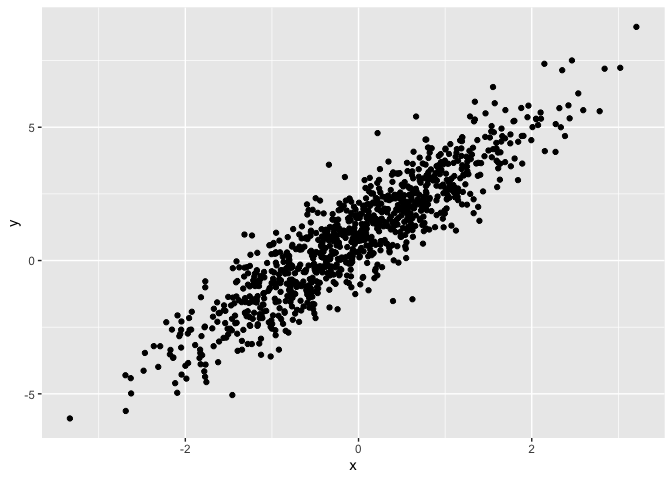
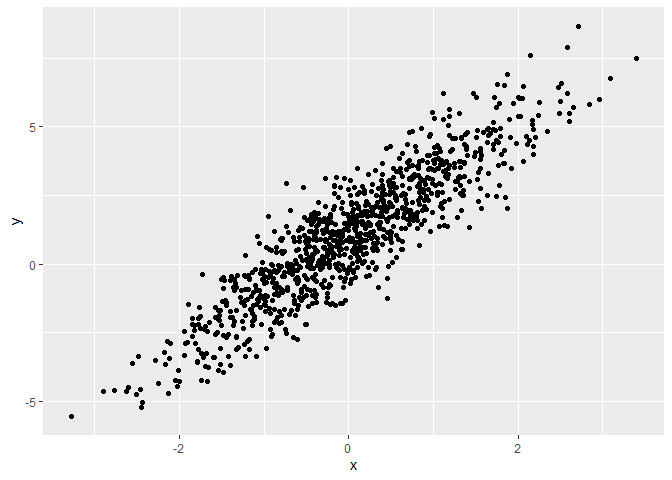
redo

diff --git a/template.md b/template.md
@@ -6,10 +6,10 @@ library(tidyverse)
 ```
 
     ## ── Attaching packages ─────────────────────────────────────── tidyverse 1.3.2 ──
-    ## ✔ ggplot2 3.3.6      ✔ purrr   0.3.4 
-    ## ✔ tibble  3.1.8      ✔ dplyr   1.0.10
-    ## ✔ tidyr   1.2.1      ✔ stringr 1.4.1 
-    ## ✔ readr   2.1.2      ✔ forcats 0.5.2 
+    ## ✔ ggplot2 3.3.6     ✔ purrr   0.3.4
+    ## ✔ tibble  3.1.8     ✔ dplyr   1.0.9
+    ## ✔ tidyr   1.2.0     ✔ stringr 1.4.1
+    ## ✔ readr   2.1.2     ✔ forcats 0.5.1
     ## ── Conflicts ────────────────────────────────────────── tidyverse_conflicts() ──
     ## ✖ dplyr::filter() masks stats::filter()
     ## ✖ dplyr::lag()    masks stats::lag()
@@ -40,7 +40,7 @@ length(samp)
 
 # Section 2
 
-I can take the mean of the sample, too! The mean is 0.038701.
+I can take the mean of the sample, too! The mean is 0.0889794.
 `round(mean(samp), 2)`
 
 # Section 3
